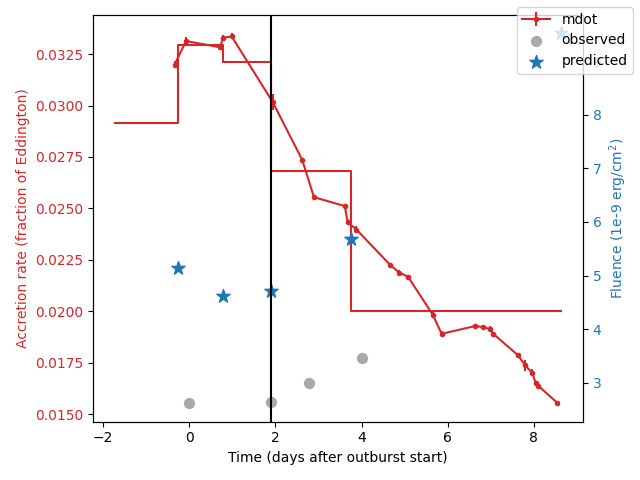
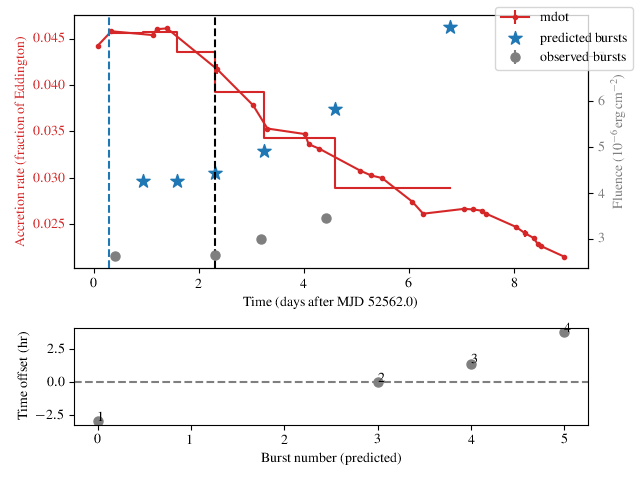
updated documentation

diff --git a/beansp/beans.py b/beansp/beans.py
@@ -1490,7 +1490,7 @@ Initial parameters:
         model and observed bursts.
 
         The table is returned as an astropy Table object that can be saved
-        as an MRT file, like so: tab.write('test.dat',format='mrt')
+        as an MRT file, like so: ``tab.write('test.dat',format='mrt')``
 	although you will have to then edit the file afterwards to
         complete the metadata
 
@@ -2131,7 +2131,7 @@ Each row has the 50th percentile value, upper & lower 68% uncertainties'''.forma
                 # loop over all the different solutions
                 _label = 'matched'
                 for i, numburstssim in enumerate(times.keys()):
-                    print (i, numburstssim, times, ebs)
+                    # print (i, numburstssim, times, ebs)
                     timepred = [x[0] for x in times[numburstssim]]
                     timepred_errup = [x[1] for x in times[numburstssim]]
                     timepred_errlow = [x[2] for x in times[numburstssim]]

diff --git a/docs/conf.py b/docs/conf.py
@@ -38,6 +38,7 @@ extensions = [
     'sphinx.ext.viewcode',
     'sphinx.ext.coverage',
     'sphinx.ext.napoleon',
+    'sphinx.ext.mathjax',
 ]
 
 # Add any paths that contain templates here, relative to this directory.

diff --git a/docs/usage.rst b/docs/usage.rst
@@ -19,9 +19,9 @@ mode.
 "Burst train" mode takes an uninterrupted (as much as possible) sequence
 of X-ray bursts, e.g. from a single outburst of a source. The measured
 properties of the bursts and the persistent flux covering the outburst are
-supplied in ascii format files, usually in the beans/data/ folder. There
-are 3 types of input data files, with only 2 required: persistent flux,
-burst properties, and satellite gtis.
+supplied in ascii format files, usually in the ``beans/data`` folder. There
+are 3 types of input data files, some of which are optional:
+burst properties, persistent flux history, and satellite gtis.
 
 "Ensemble" mode takes multiple sets of regular burst measurements, for
 example as provided in `Galloway et al. (2017)`_.  The burst measurements,
@@ -31,16 +31,23 @@ along with the persistent flux, are all supplied in the burst properties file, a
 
 **Burst observations:**
 Required for both modes, and set via the ``burstname`` parameter; for "burst train" mode, ascii format, with columns in the following order:
-time (MJD), fluence (in 1e-6 erg/cm^2/s) fluence error, alpha, alpha
+time (MJD), bolometric burst fluence (in units of
+:math:`10^{-6}\ \rm{erg\,cm^{-2}}`),
+fluence error, alpha, alpha
 error. For "ensemble" mode, the columns are
-time (MJD), fluence (in 1e-6 erg/cm^2/s) fluence error, alpha, alpha
-error, (bolometric) persistent flux (1e-9 erg/cm^2/s), persistent flux error, recurrence time (hr), recurrence time error
+time (MJD), fluence (in :math:`10^{-6}\ \rm{erg\,cm^{-2}}`),
+fluence error, alpha, alpha
+error, (bolometric) persistent flux
+(:math:`10^{-9}\ \rm{erg\,cm^{-2}\,s^{-1}}`),
+persistent flux error, recurrence time (hr), recurrence time error
 
 **Persistent flux history:**
 Required for "burst train" mode, set via the ``obsname`` parameter; set to
 ``None`` for "ensemble" mode runs.
 Ascii format, with columns in the following order:
-start time (MJD), stop time (MJD) persistent flux measurements (in 1e-9 erg/cm^2/s), pflux error
+start time (MJD), stop time (MJD) persistent flux measurements (in 
+:math:`10^{-9}\ \rm{erg\,cm^{-2}\,s^{-1}}`),
+pflux error
 
 
 
@@ -83,13 +90,17 @@ replicate:
 
 .. code-block:: python
 
-    B = Beans(config_file="test1.ini")
+    from beansp import beans,Beans
+    B = Beans(config_file="test1.ini", prior=beans.prior_1808,corr=beans.corr_goodwin19)
     B.restart = True
     B.nsteps = 1000
  
 In the example given above we're reading in all the parameters from the
-previous ``test1`` run, but updating the number of steps to go longer this
-time.
+previous ``test1`` run, but updating the number of steps, to go longer this
+time (for example).
+
+Note also the specification of the ``prior`` and ``corr`` functions; these
+settings replicate the baseline run for SAX J1808.4-3658.
 
 **It is important to choose good starting parameters** The
 MCMC walkers will be distributed tightly around a starting point given by
@@ -97,17 +108,17 @@ the ``theta`` parameter, which includes each of the input parameters to the mode
 
 .. code-block:: python
 
-    theta = X, Z, Q_b, d, xi_b, xi_p, M, R [, f_a, f_E]
+    theta = X, Z, Q_b, d, xi_b, xi_p, M, R [, f_E, f_a]
 
-(the square brackets indicate that ``f_a`` and ``f_E`` are optional). 
+(the square brackets indicate that ``f_E`` and ``f_a`` are optional). 
 
 So an example set of starting conditions would be:
 
 .. code-block:: python
 
-    theta = 0.58, 0.013, 0.4, 3.5, 1.0, 1.0, 1.5, 11.8
+    theta = 0.36, 0.016, 0.8, 2.4, 1.0, 1.4, 2.1, 12.2
 
-The ``f_a`` and ``f_E`` in this case are not included; see parameters for a description of each of the parameters.
+The ``f_E`` and ``f_a`` in this case are not included; see parameters for a description of each of the parameters.
 
 Ideally you want to
 start with a set of parameters for your ``theta`` that roughly replicates
@@ -125,24 +136,31 @@ which produces a plot like so:
 .. image:: plot_model_example.png
    :width: 600
 
-The persistent flux measurements (*red dots*, left-hand *y*-axis) are
-shown, joined by lines implying the use of linear interpolation for
-flux inbetween.
-Fluence of the observed bursts are indicated (*gray circles*,
+In the top panel, the accretion rate (*red dots*, left-hand *y*-axis)
+inferred from the persistent flux measurements are
+shown, joined by lines implying the use of linear interpolation
+(``interp='linear'``) for flux inbetween.
+The measured fluence of the observed bursts are indicated (*gray circles*,
 right-hand *y*-axis) along with the predicted bursts (*blue stars*).
-The time of the reference burst is indicated (*black vertical line*).
+The time of the reference burst is indicated (*black dashed line*).
 For the purposes of simulation the code assumes the accretion rate is
 constant between the predicted bursts, which is indicated by the
-stepped line. 
+stepped red line. 
 
-In this example the times of the first and fourth burst are reproduced
+The lower panel shows the time offset between the predicted and observed
+bursts.  In this example the times of the bursts are reproduced
 reasonably well (the second burst doesn't count, as its our reference from
-which the simulation is performed in each direction). There's one
+which the simulation is performed in each direction). There are two
 intermediate simulated burst falling between the first and second observed
-bursts,but the third observed burst isn't modeled. So our overall burst
+bursts, but there is also a net trend in the residuals.  So our overall burst
 rate is a little low (and the fluences are too high). Even so, the
 agreement *might* be good enough to use the chosen ``theta`` as a starting
 point. 
+
+Note that the lower panel will not be shown if it's not possible to match
+the observed and predicted bursts (e.g. if there are not sufficient
+predicted bursts) or if you pass  the option ``show_model=False`` to 
+the :meth:`beansp.Beans.plot` method.
 
 Each of the initialisation parameters are described in more detail below:
 
@@ -227,6 +245,36 @@ When you see ``Complete! WARNING max number of steps reached but chains
 are not converged.`` This means the run finished but reached the maximum
 number of steps ``nsteps`` without converging.
 
+Practically it's useful to start with a few shorter runs to verify the
+operation, e.g. checking that the chains are evolving in a plausible
+direction (with the ``chain`` option below). 
+
+Once you have a preliminary run that you would like to continue, you can
+do so by setting ``restart=True`` in the :class:`beansp.Beans` object.
+This will automatically continue from the last walker position, appending
+the new results to the existing ``.h5`` file.
+
+More fine-control of the walker positions is possible with the ``pos``
+option to :meth:`beansp.Beans.do_run`:
+
+.. code-block:: python
+
+    B.do_run(pos=custom_positions)
+
+This option will use the supplied
+array (dimension ``nwalkers`` x ``ndim``) as the starting points.
+
+**Checking Chain Convergence**
+
+There are two main methods of checking the convergence and behaviour of
+your MCMC chains. One is the autocorrelation time, which ``emcee``
+conveniently calculates for you, and the other is the acceptance fraction.
+`Goodman and Weare (2010) <https://msp.org/camcos/2010/5-1/p04.xhtml>`_
+provide a good discussion on what these are and why they are important;
+see also the `tutorial with emcee <https://emcee.readthedocs.io/en/stable/tutorials/autocorr>`_. 
+
+Running ``B.do_analysis(['autocor'])`` (see below) will display the integrated
+autocorrelation time and the estimates from ``emcee``.
 
 4. Analysing the Results
 ------------------------
@@ -249,8 +297,8 @@ steps to skip with the ``burnin`` parameter.
 The model predictions at each step are saved in the "blobs" part of the sampler, which are used together with the parameter values to display the various plots below. For compatibility with the HDF5 format the model prediction dictionary must be converted to a string, and so it needs to be turned back into a dictionary item-by-item (e.g. with ``eval``) when you read in the save file.
 
 Several other options are possible for built-in analysis, and can be
-specified via the ``options`` keyword to ``do_analysis``, which accepts a
-list of strings, specifying one or more of:
+specified via the ``options`` keyword to :meth:`beansp.Beans.do_analysis`,
+which accepts a list of strings, specifying one or more of:
 
 ``autocor``
   plot estimates of the autocorrelation times for each parameter, as a function of timestep
@@ -274,19 +322,53 @@ list of strings, specifying one or more of:
   plot the observed and predicted burst times and fluences
 
 You can choose to display the figures for each analysis, or save to a PDF
-by specifying ``savefig=True`` in the call to ``do_analysis``.
+by specifying ``savefig=True`` in the call to
+:meth:`beansp.Beans.do_analysis`.
 
-**Checking Chain Convergence**
+**Observed-predicted burst time comparisons**
 
-There are two main methods of checking the convergence and behaviour of
-your MCMC chains. One is the autocorrelation time, which ``emcee``
-conveniently calculates for you, and the other is the acceptance fraction.
-`Goodman and Weare (2010) <https://msp.org/camcos/2010/5-1/p04.xhtml>`_
-provide a good discussion on what these are and why they are important;
-see also the `tutorial with emcee <https://emcee.readthedocs.io/en/stable/tutorials/autocorr>`_. 
+The ``comparison`` analysis option behaves in a special way, which affects
+some of the other analyses. Depending on the range of walkers, you may
+have different numbers of predicted bursts at different walker positions.
+The ``comparison`` analysis will group these and plot their burst
+statistics separately, to help you gauge which is the best option to
+pursue (for example). 
 
-Running ``B.do_analysis(['autocor'])`` will display the integrated
-autocorrelation time and the estimates from ``emcee``.
+.. image:: comparison_example.png
+   :width: 600
+
+An extreme example is shown for a run for IGR J17498-2921 above, where
+there are 6 different solution sets with different numbers of predicted
+bursts. The relative agreement can be gauged in the residual plot below,
+as well as the RMS offset between the predicted and observed bursts, which
+is displayed for each model. In this case the 21-burst solution is the
+preferred one, with an RMS error of only 1.92 hr.
+
+The different solutions corresponding to different burst numbers are
+retained in the posterior object, so that if you subsequently call the
+``posteriors`` option in :meth:`beansp.Beans.do_analysis` the posteriors
+will also be plotted separately for each different group. For the extreme
+case above the posteriors get rather busy...
+
+.. image:: posteriors_example.png
+   :width: 600
+
+To "home in" on the best solution you could recover the last set of
+samples and choose only those walkers fitting the 21-burst solution:
+
+.. code-block:: python
+
+    p, *dummy = B.reader.get_last_sample()
+    np.shape(p)
+    (200, 8)
+    good = np.array(B.model_pred['partition'])[-200:] == 21
+    len(np.where(good)[0])
+    39
+
+Only 39 samples are not so many to continue with the run, but you could
+use them as a starting point and distribute new walkers around them, and
+continue the runs from these positions using the ``pos`` 
+option to :meth:`beansp.Beans.do_run` (see above).
 
 **Obtaining Parameter Constraints**
 
@@ -297,9 +379,9 @@ report for the parameters. There are a few ways this can be done; e.g.
 take the maximum likelihood value and the upper and lower limits
 encompassing the desired confidence fraction, or you could take the 50th
 percentile value of
-the distributions. The analysis code in ``do_analysis`` does this one way,
-but you should always check multiple methods and see if the results are
-significantly different.
+the distributions. The analysis code in :meth:`beansp.Beans.do_analysis`
+does this one way, but you should always check multiple methods and see if
+the results are significantly different.
 
 The central values of these and 1 sigma
 uncertainties are saved in the text file

diff --git a/docs/modules.rst b/docs/modules.rst
@@ -11,4 +11,4 @@ Classes and functions
 .. autofunction:: beansp.beans.corr_goodwin19
 
 .. autoclass:: beansp.Beans
-   :members: __init__, do_run, lnprob, do_analysis, plot
+   :members: __init__, do_run, lnprob, do_analysis, plot, sim_data, burst_table
